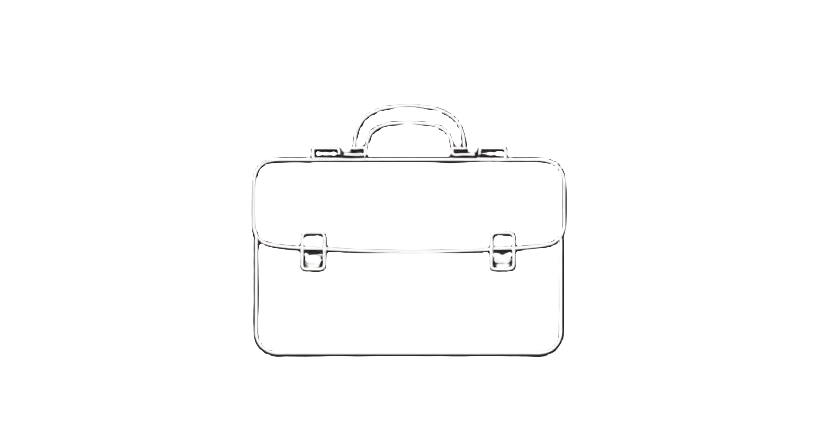
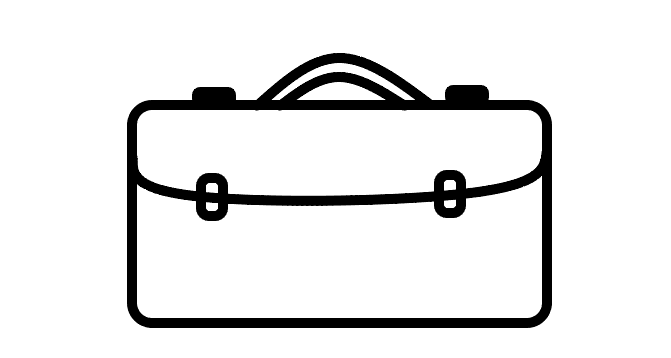
Updated Images, Added to About me Section, Fixed Home page. (NEED FIX FOR AUTO HIGHLIGHT IN NAVBAR)

Changed region(s): [[0.1788, 0.1229, 0.8346, 0.9218], [0.2981, 0.3687, 0.3279, 0.3994]]

diff --git a/index.html b/index.html
@@ -48,37 +48,39 @@
             <div id="home" class="container-fluid p-4 vh-100 card-pop mt-0 d-flex justify-content-center align-items-center flex-column">
                 <div class="row text-start flex-column">
                     <div class="col">
-                        <div class="home-text" style="font-size: 50px;" data-text="Hello, I'm Steven"></div>
+                        <div class="home-text" style="font-size: 50px;">&lt;Hello, I'm <span style="color: #23adec;">Steven</span>&gt;</div>
                     </div>
                     <div class="col" style="display: none;">
-                        <div class="home-text" style="font-size: 50px;" data-text="I am a graduated"></div>
+                        <div class="home-text" style="font-size: 50px;">&lt;I am a <span style="color: #e0c00a;">graduated</span></div>
                     </div>
                     <div class="col" style="display: none;">
-                        <div class="home-text" style="font-size: 50px;" data-text="Computer Science Major"></div>
+                        <div class="home-text" style="font-size: 50px;"><span style="color: #23adec;">Computer Science</span> Major&gt;</div>
                     </div>
                 </div>      
             </div>
 
-            <div id="about" class="vh-100 justify-content-center align-items-center text-center card-pop">
+            <div id="about" class="vh-100 justify-content-center align-items-center card-pop">
                 <div class="row">
 
-                    <div class="col-12">
+                    <div class="col-12 text-center">
                         <h3 class="text-black">About Me</h3>
                     </div>
                 </div>
-                <div class="container-fluid">
+                <div class="container-fluid text-center">
                     <div class="row align-items-top justify-content-center">
-                        <div class="col-3 rounded text-bg-dark mx-3">
-                            <div class="row">
-                                <div class="col-12">
+                        <div class="col-3 rounded mx-3" style="background-color: #e5e5e5;">
+                            <div class="row d-felx flex-column">
+                                <div class="col">
                                     <img src="assets\img\grad_cap.png" alt="grad_cap" class="img-fluid">
                                 </div>
-                                <div class="col-12">
+                                <div class="col">
                                     <h3>Education</h3>
                                 </div>
-                                <div class="col-12 mt-3">
-                                    <p class="text-bg-dark">Hello, my name is Steven Weeden, and I'm a soon-to-be graduate with a degree in Computer Science from Texas State University. From 
-                                        a young age, I have always been drawn to computers and the everlasting advancements in technology. Ever since receiving my first laptop, I knew computer science was the field right for me.
+                                <div class="col mt-3">
+                                    <p>I earned my Bachelor of Science in Computer Science from Texas State University. Along the way, I've built a strong foundation in areas like machine learning, software engineering, 
+                                        and database management. What really drives me, though, is a genuine curiosity to keep learning—especially outside the typical boundaries of computer science. 
+                                        That mindset has led me to explore other fields, from electrical engineering and hands-on repair work to music theory. 
+                                        I believe being adaptable and open to new knowledge is key to building a well-rounded skill set.
                                     </p>
                                 </div>
                                 
@@ -86,18 +88,18 @@
                             </div>
                         </div>
 
-                        <div class="col-3 rounded text-bg-dark mx-3">
-                            <div class="row">
-                                <div class="col-12">
+                        <div class="col-3 rounded mx-3" style="background-color: #e5e5e5;">
+                            <div class="row d-felx flex-column">
+                                <div class="col">
                                     <img src="assets\img\person.png" alt="person logo" class="img-fluid">
                                 </div>
-                                <div class="col-12">
+                                <div class="col">
                                     <h3>Personal Life</h3>
                                 </div>
-                                <div class="col-12 mt-3">
-                                    <p class="text-bg-dark">Through my educational career I have developed skills within multiple fields of computer science. I've worked on projects such as training machine learning models, 
-                                        full-stack applications, and game development. By working on these projects I've been able to strengthen my skills in Python, Typescript, Java, C++, SQL and many more.
-                                        I also have a strong love and self learning of electrical engineering and a nice set of handyman skills!
+                                <div class="col mt-3">
+                                    <p>From a young age, I've been drawn to technology and computer science. That curiosity pushed me to teach myself the fundamentals of computer hardware and programming. 
+                                        By the time I was 12, I had built my first computer, and at 16, I launched my first website—mostly by diving into resources like YouTube and Google. 
+                                        What started as a hobby quickly became a passion, which made pursuing a degree in computer science feel like a natural next step, not just something I had to do.
                                     </p>
                                 </div>
                                 
@@ -105,18 +107,20 @@
                             </div>
                         </div>    
 
-                        <div class="col-3 rounded text-bg-dark mx-3">
+                        <div class="col-3 rounded mx-3" style="background-color: #e5e5e5;">
                             <div class="row">
-                                <div class="col-12">
+                                <div class="col-12 pt-2">
                                     <img src="assets\img\briefcase.png" alt="briefcase logo" class="img-fluid">
                                 </div>
                                 <div class="col-12">
                                     <h3>Work Experience</h3>
                                 </div>
                                 <div class="col-12 mt-3">
-                                    <p class="text-bg-dark">In my free time, I enjoy going to the gym and spending time at home relaxing. My years in college have taught me how crucial a work/life balance is for my productivity.
-                                        Therefore, I believe it is important to take time out of work and pursue hobbies that can help distress from exhausting work days. I also enjoy furthering my educational background
-                                        in the computer science field, either through schooling or self-teaching. I believe it's important to keep learning and developing my skills to stay on top of this rapidly evolving field.
+                                    <p>Over the years, I've held a variety of jobs—everything from retail and mechanic work to helping out as an electrician. 
+                                        My first real experience with work started at age 12, pitching in with the family business. 
+                                        Growing up with a single mother who was building a business from the ground up meant I had to step up early on. 
+                                        While it wasn't always easy, I take a lot of pride in starting young—it taught me the value of hard work and built the strong work ethic I carry with me today. 
+                                        Now, I'm excited to turn the page and focus on the next chapter: building a successful career in computer science.
                                     </p>
                                 </div>
                             </div>
@@ -124,16 +128,54 @@
                     </div>
                 </div>
 
-                <div class="row">
-
-                    <div class="col-12">
-                        <h3 class="text-black">Contact</h3>
+                <div class="row mt-5 px-5 d-flex">
+                    <div class="col d-flex align-items-center justify-content-center rounded" style="background-color: #e5e5e5;">
+                        <div class="row d-flex flex-column">
+                            <div class="col-12 text-center mb-3">
+                                <h4 class="text-black text-decoration-underline">Contacts</h4>
+                            </div>
+                            <div class="col my-3">
+                                <div class="d-flex align-items-center">
+                                    <img src="assets/img/gmail.svg" alt="email logo" style="margin-right: 10px;">
+                                    <a class="text-black mb-0" style="font-size: 1.25rem;" href="mailto:weedensteven@gmail.com" target="_blank" rel="noreferrer">weedensteven@gmail.com</a>
+                                </div>                                
+                            </div>
+                            <div class="col my-3">
+                                <div class="d-flex align-items-center">
+                                    <img src="assets/img/linkedin.svg" alt="linkedin logo" style="margin-right: 10px;">
+                                    <a class="text-black mb-0" style="font-size: 1.25rem;" href="https://www.linkedin.com/in/steven-weeden-747a521ba/" target="_blank" rel="noreferrer">Steven Weeden</a>
+                                </div>                                
+                            </div>
+                            <div class="col my-3">
+                                <div class="d-flex align-items-center">
+                                    <img src="assets/img/github.svg" alt="github logo" style="margin-right: 10px;">
+                                    <a class="text-black mb-0" style="font-size: 1.25rem;" href="https://github.com/steven-weeden" target="_blank" rel="noreferrer">steven-weeden</a>
+                                </div>                                
+                            </div>
+                        </div>
                     </div>
-                </div>
-
-                <div class="row">
-                    <div class="col">
-                        <h2 class="text-black">Email: Weedensteven@gmail.com</h2>
+                    <div class="col d-flex rounded" style="background-color: #e5e5e5;">
+                        <form class="row g-3 px-3">
+                            <div class="col-md-6">
+                              <label for="inputFName" class="form-label">First Name</label>
+                              <input type="text" class="form-control" id="inputFName">
+                            </div>
+                            <div class="col-md-6">
+                              <label for="inputLName" class="form-label">Last Name</label>
+                              <input type="text" class="form-control" id="inputLName">
+                            </div>
+                            <div class="col-12">
+                              <label for="inputEmail" class="form-label">Email Address</label>
+                              <input type="text" class="form-control" id="inputEmail" placeholder="e.g. something@gmail.com">
+                            </div>
+                            <div class="col-12">
+                              <label for="inputSubject" class="form-label">Subject</label>
+                              <textarea class="form-control" aria-label="With textarea" style="height: 200px; max-height:200px;"></textarea>
+                            </div>
+                            <div class="col-12 pb-3">
+                              <button type="submit" class="btn btn-primary">Submit</button>
+                            </div>
+                          </form>
                     </div>
 
                 </div>

diff --git a/assets/js/index.js b/assets/js/index.js
@@ -49,35 +49,117 @@ document.addEventListener("DOMContentLoaded", () => {
         if (index >= elements.length) return;
 
         const el = elements[index];
-        const parent = el.closest(".col"); // Assuming the parent `.col` is hidden
+        const parent = el.closest(".col");
 
-        // Reveal the line before typing
         if (parent) {
-            parent.style.display = "block"; // or "flex" if needed
+            parent.style.display = "block";
         } else {
             el.style.display = "block";
         }
 
-        const fullText = el.getAttribute("data-text");
-        let i = 0;
+        const fullHTML = el.innerHTML.trim();
+        const temp = document.createElement("div");
+        temp.innerHTML = fullHTML;
 
-        function typeChar() {
-            if (i <= fullText.length) {
-                el.innerHTML = fullText.slice(0, i);
-                i++;
-                setTimeout(typeChar, 80);
-            } else {
-                el.classList.add("finished");
-                if (el.querySelector("span")) {
-                    el.appendChild(el.querySelector("span"));
+        const output = [];
+        function flatten(node) {
+            for (let child of node.childNodes) {
+                if (child.nodeType === Node.TEXT_NODE) {
+                    const text = child.textContent;
+                    for (let char of text) {
+                        output.push({ type: "text", content: char });
+                    }
+                } else if (child.nodeType === Node.ELEMENT_NODE) {
+                    const span = document.createElement(child.tagName);
+                    for (let attr of child.attributes) {
+                        span.setAttribute(attr.name, attr.value);
+                    }
+                    const nested = [];
+                    flatten(child); // Recursive fill into `output`
+                    output.push({ type: "element", element: span, children: nested });
                 }
-                index++;
-                setTimeout(typeNext, 200);
             }
         }
 
-        typeChar();
+        // Updated flatten that returns children array to preserve structure
+        function flatten(node, container = output) {
+            for (let child of node.childNodes) {
+                if (child.nodeType === Node.TEXT_NODE) {
+                    const text = child.textContent;
+                    for (let char of text) {
+                        container.push({ type: "text", content: char });
+                    }
+                } else if (child.nodeType === Node.ELEMENT_NODE) {
+                    const span = document.createElement(child.tagName);
+                    for (let attr of child.attributes) {
+                        span.setAttribute(attr.name, attr.value);
+                    }
+                    const nested = [];
+                    flatten(child, nested); // recurse into children
+                    container.push({ type: "element", element: span, children: nested });
+                }
+            }
+        }
+
+        flatten(temp);
+
+        el.innerHTML = ""; // Clear the element
+
+        function typeRecursive(container, targetEl) {
+            let i = 0;
+
+            function step() {
+                if (i >= container.length) {
+                    el.classList.add("finished");
+                    index++;
+                    setTimeout(typeNext, 200);
+                    return;
+                }
+
+                const node = container[i];
+
+                if (node.type === "text") {
+                    targetEl.append(node.content);
+                    i++;
+                    setTimeout(step, 80);
+                } else if (node.type === "element") {
+                    const clone = node.element.cloneNode(false);
+                    targetEl.appendChild(clone);
+                    let childIndex = 0;
+
+                    function typeChild() {
+                        if (childIndex >= node.children.length) {
+                            i++;
+                            setTimeout(step, 0);
+                            return;
+                        }
+
+                        const child = node.children[childIndex];
+
+                        if (child.type === "text") {
+                            clone.append(child.content);
+                            childIndex++;
+                            setTimeout(typeChild, 80);
+                        } else if (child.type === "element") {
+                            const childClone = child.element.cloneNode(false);
+                            clone.appendChild(childClone);
+                            typeRecursive([child], childClone);
+                            childIndex++;
+                        }
+                    }
+
+                    typeChild();
+                }
+            }
+
+            step();
+        }
+
+        typeRecursive(output, el);
     }
 
     typeNext();
 });
+
+
+
